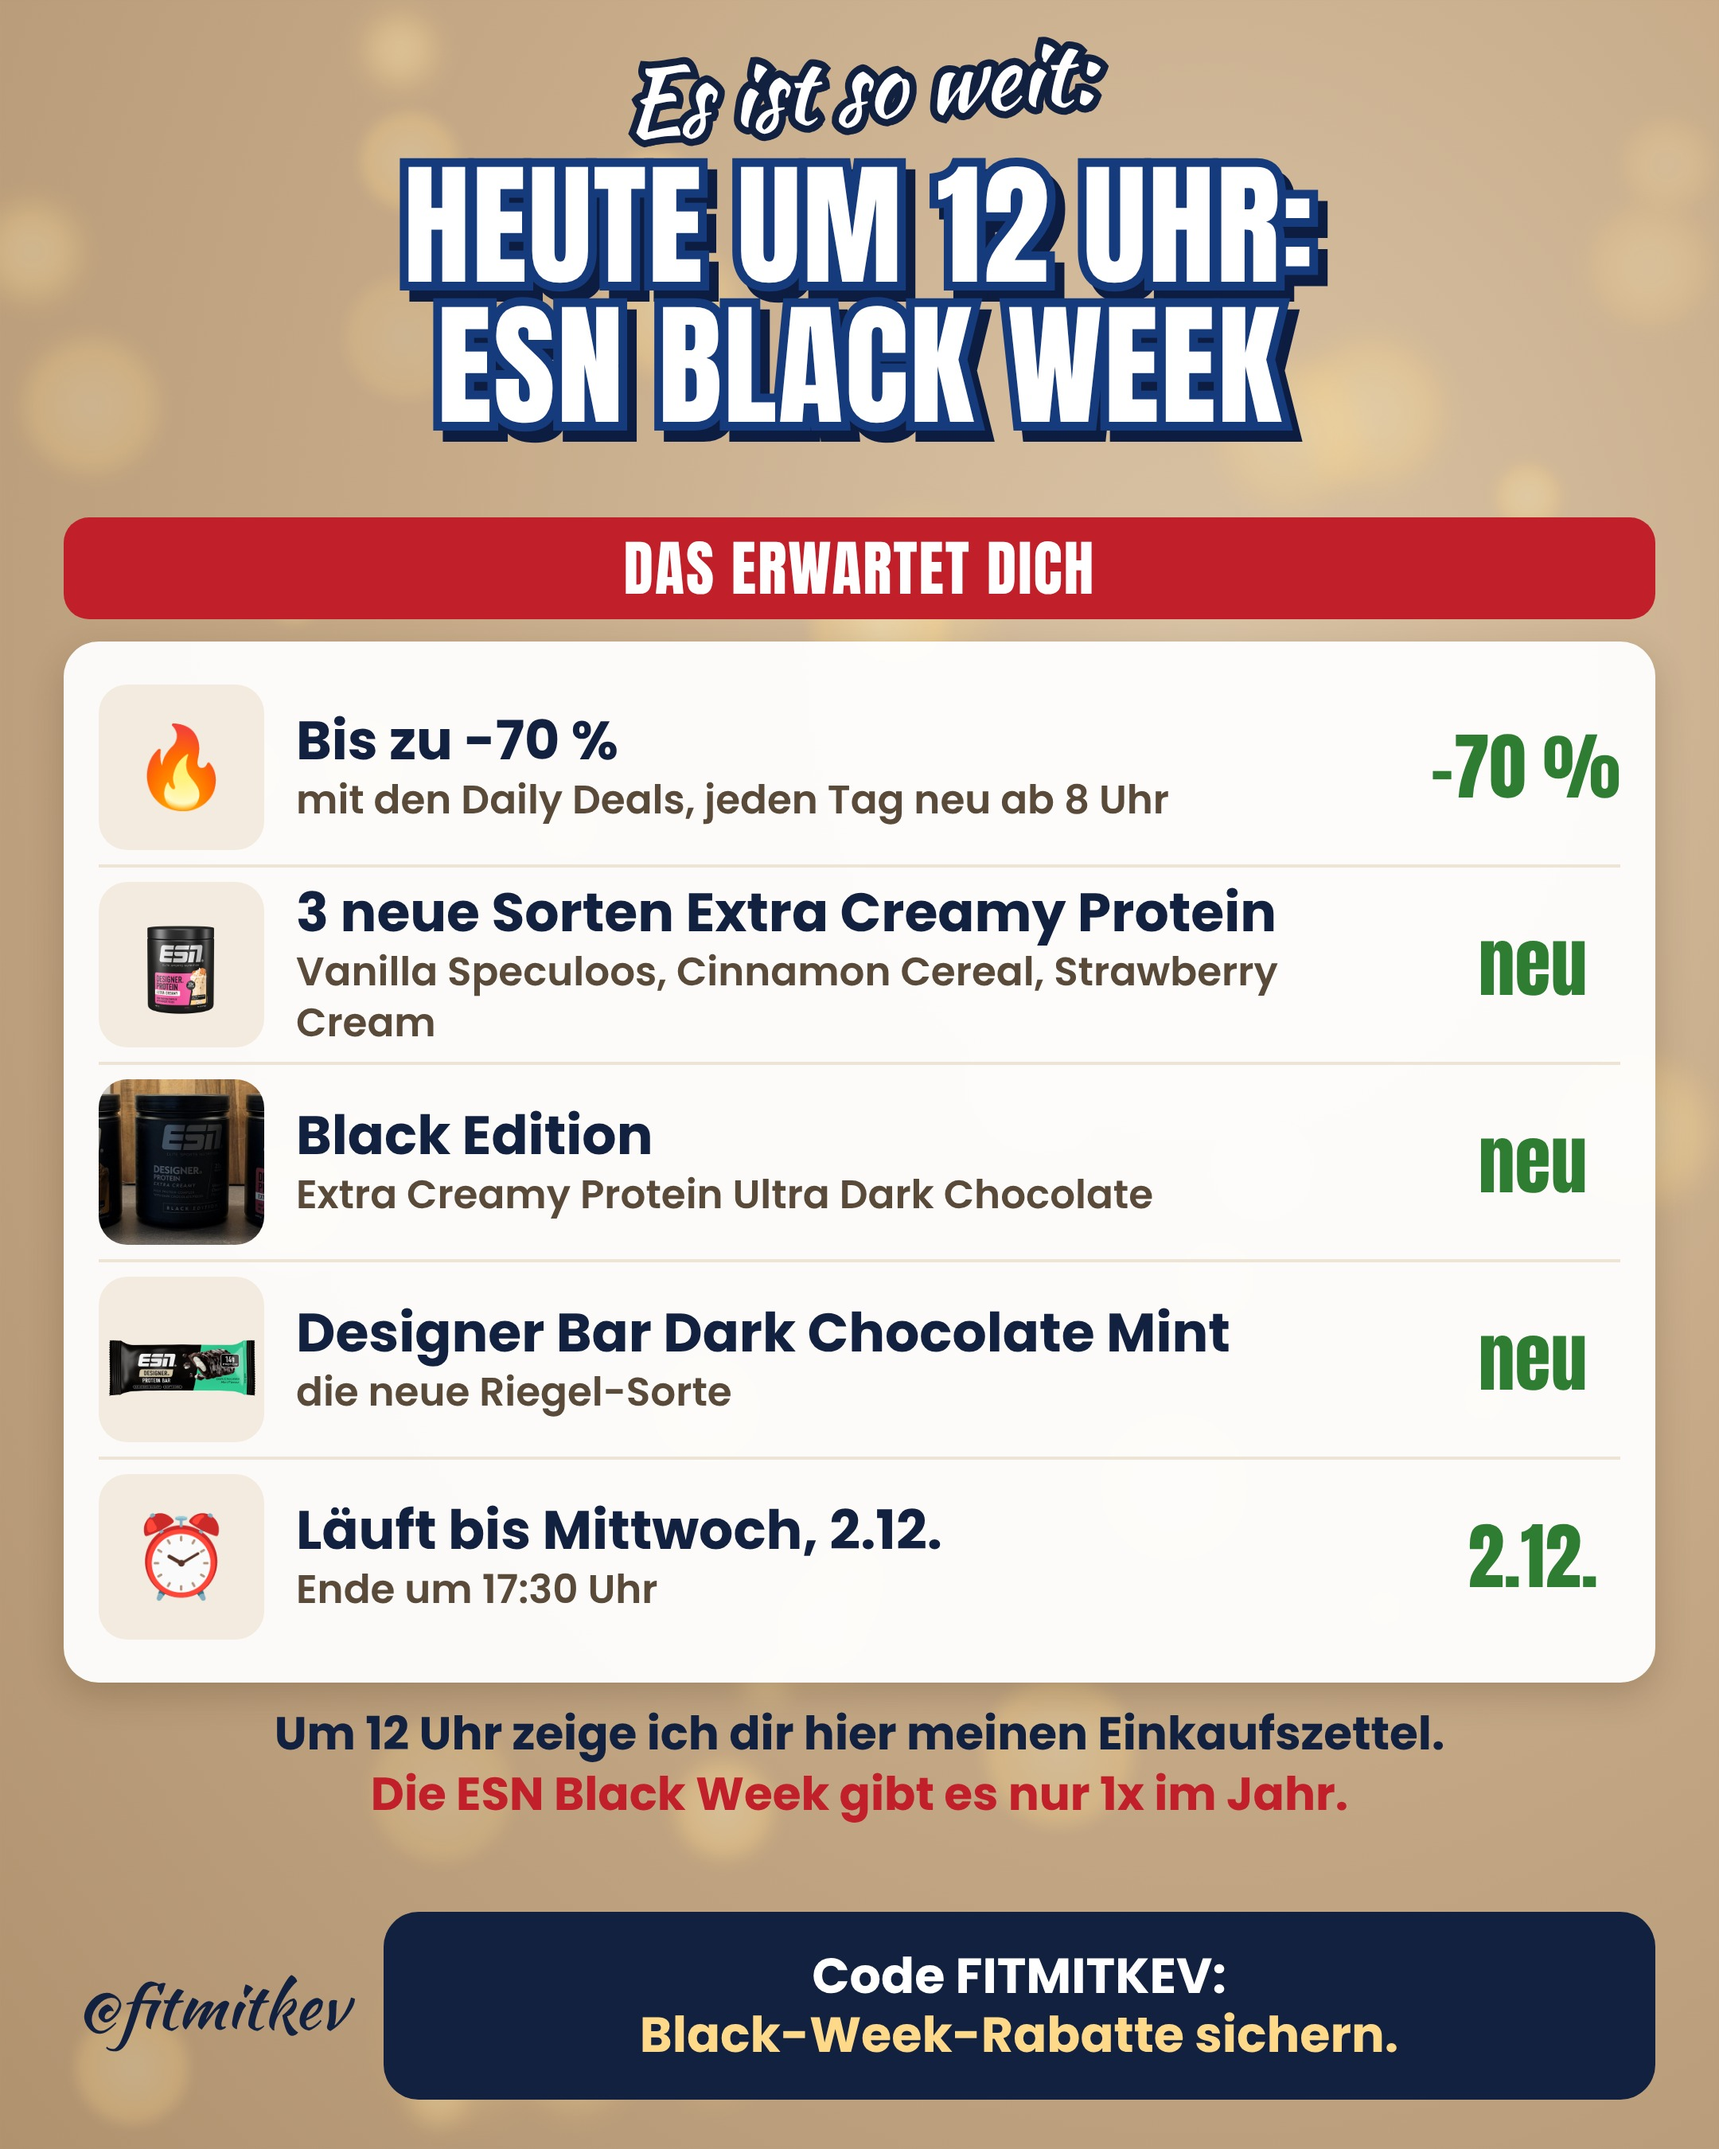
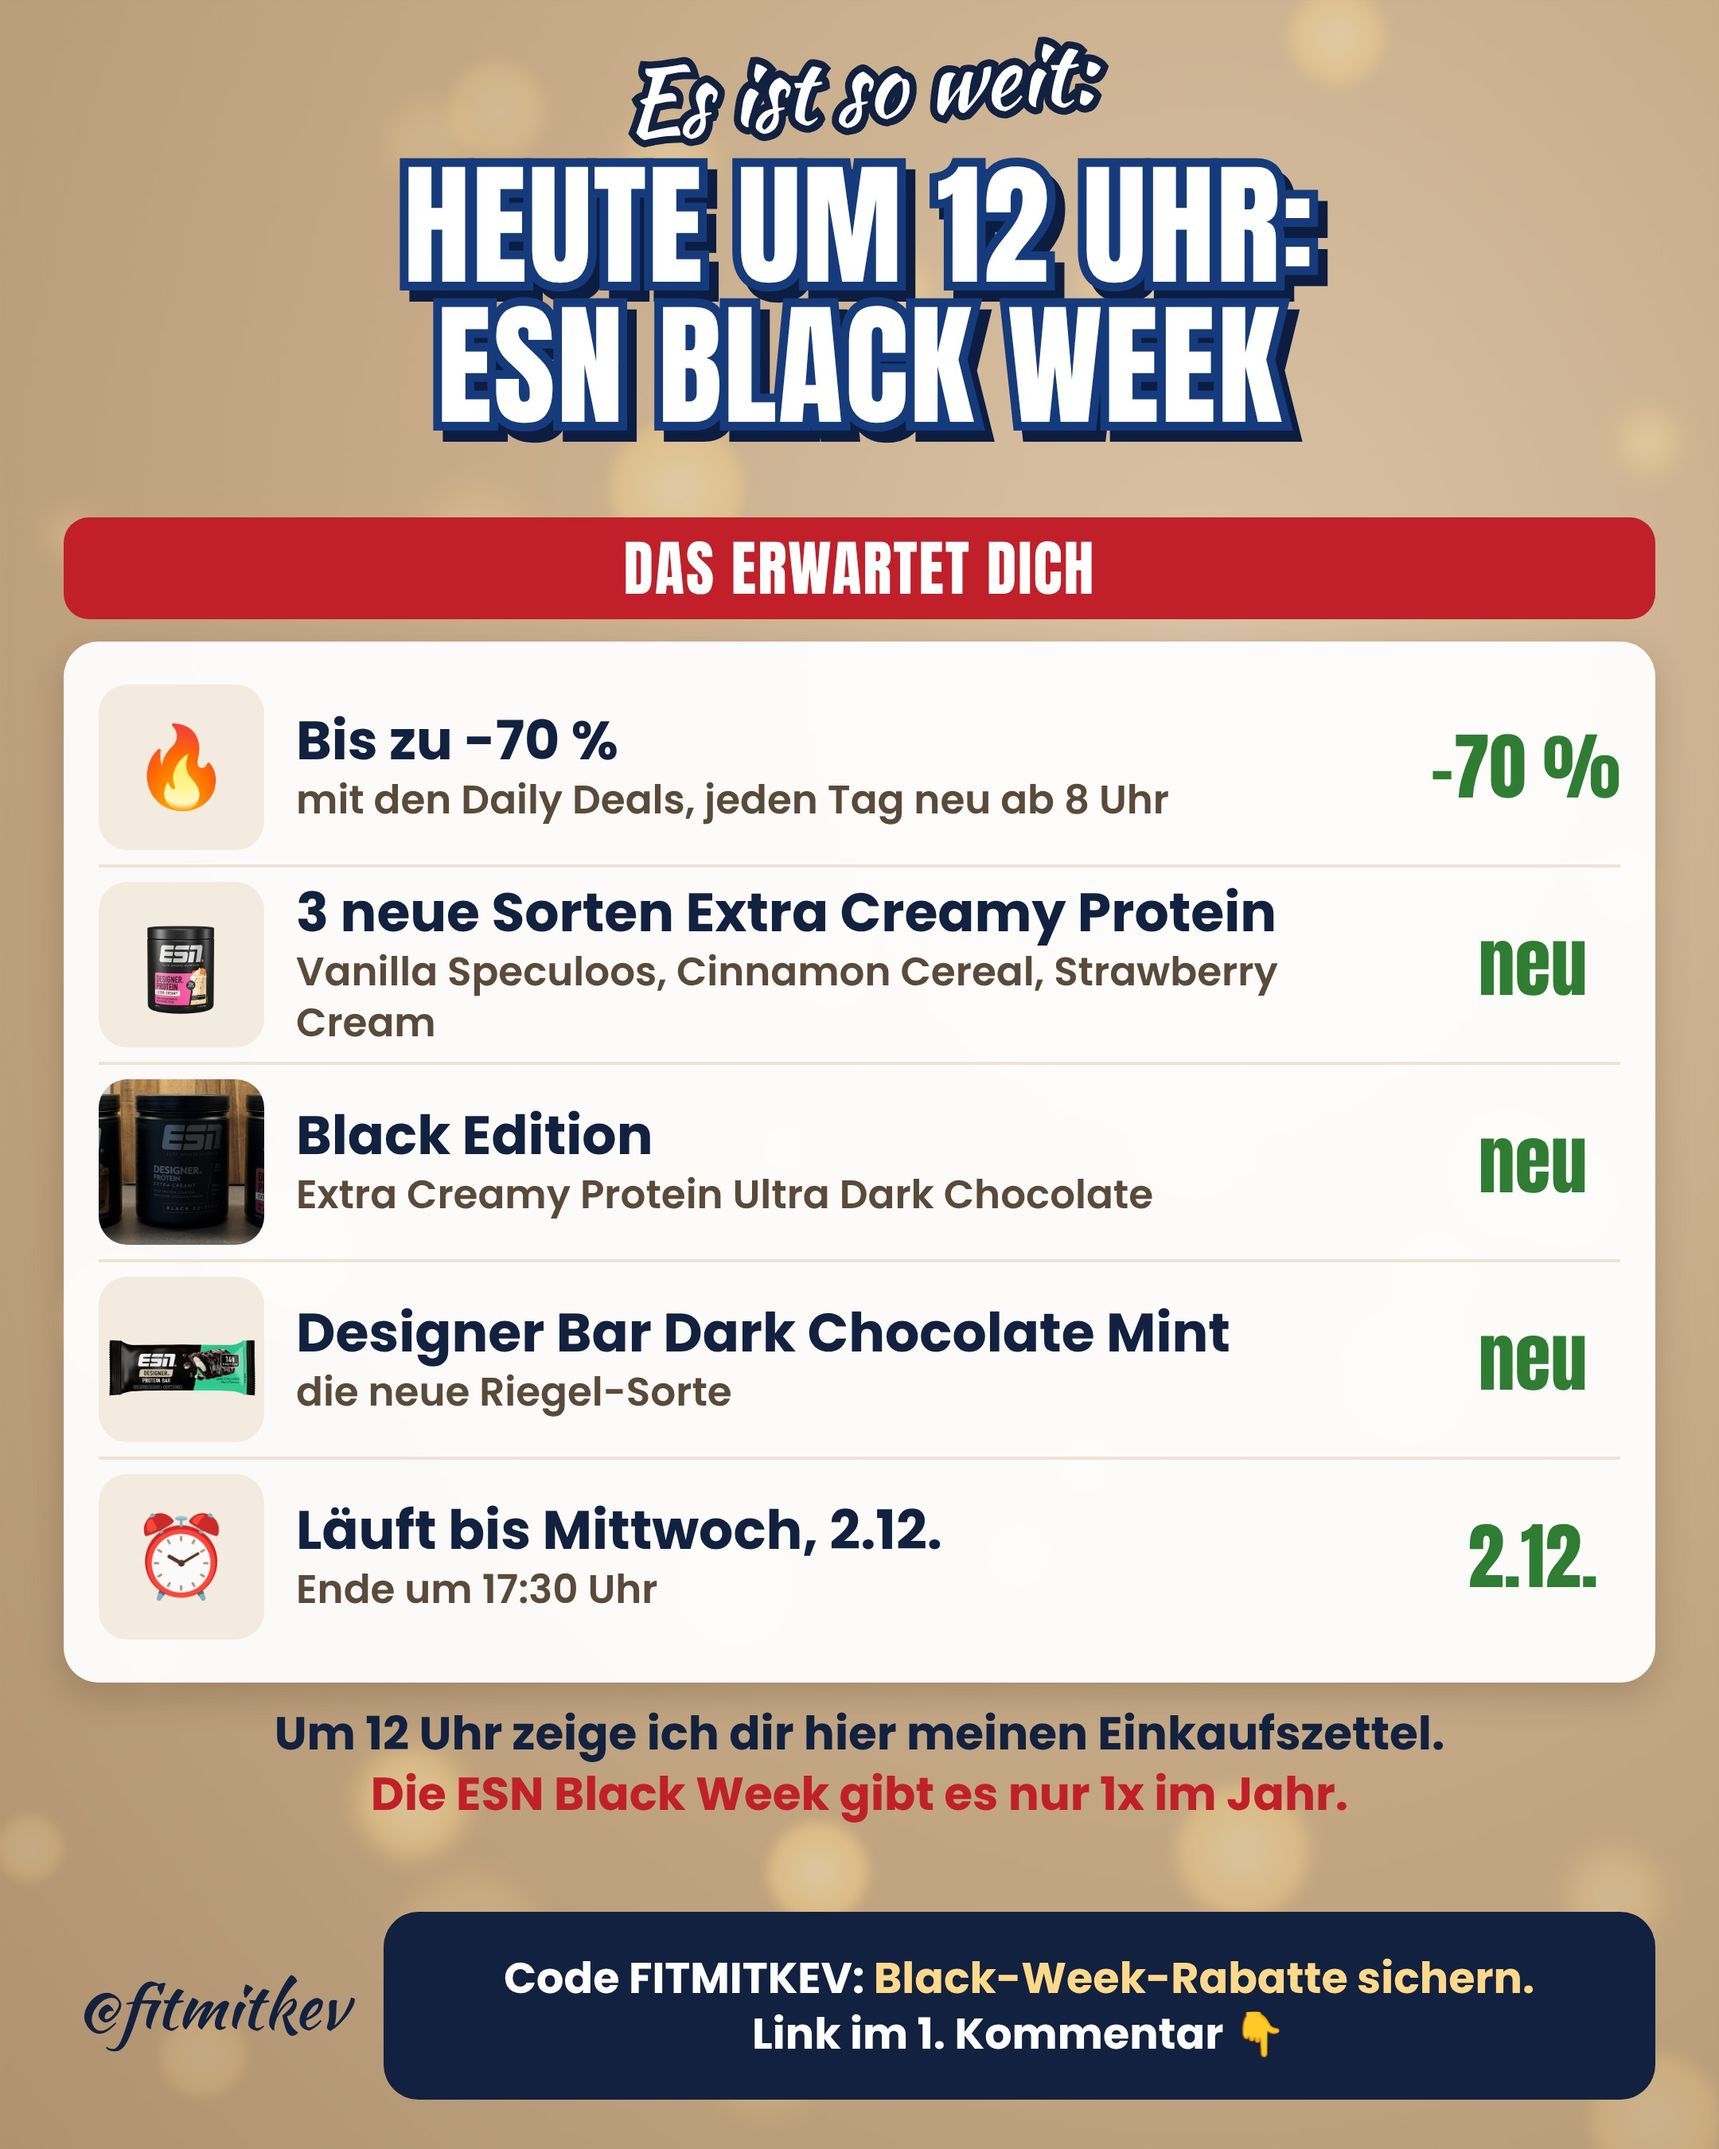
ESN K1/K2: „Link im 1. Kommentar“ im blauen Feld
Claude-Session: https://claude.ai/code/session_01KPVmpRePrZAkggdzf7KsfK

Changed region(s): [[0.2792, 0.84, 0.8995, 0.9644]]

diff --git a/tools/esn_produkt/esn_board.py b/tools/esn_produkt/esn_board.py
@@ -39,8 +39,8 @@ SPEC={
       ('kev/sq-Kev-Isoclear-3-Glaeser-vorn.jpg','Isoclear','Protein-Eistee mit Geschmack','-25 %'),
       ('kev/sq-Kev-FlavorPowder-oben.jpg','Designer Flavor Powder','zum Süßen von Skyr und Quark','-40 %')])],
    mid='Morgen um 12 Uhr startet die ESN Black Week<br><span>mit bis zu -70 %. Nur 1x im Jahr.</span>',
-   msg='Code FITMITKEV:<br><span>Black-Week-Rabatte sichern.</span>',
-   css='.ri{width:104px;height:104px;overflow:hidden}.ri img{max-width:104px;max-height:104px;border-radius:14px}.rw{padding:9px 0}'),
+   msg='Code FITMITKEV: <span>Black-Week-Rabatte sichern.</span><br>Link im 1. Kommentar 👇',
+   css='.ri{width:104px;height:104px;overflow:hidden}.ri img{max-width:104px;max-height:104px;border-radius:14px}.rw{padding:9px 0}.msg{font-size:27px;line-height:1.3}'),
  'K2':dict(out='ESN-K2-Start', hook='Es ist so weit:', title=['HEUTE UM 12 UHR:','ESN BLACK WEEK'], size=84,
    secs=[dict(lab='DAS ERWARTET DICH', col=RED, type='rows', d=[
       ('🔥','Bis zu -70 %','mit den Daily Deals, jeden Tag neu ab 8 Uhr','-70 %'),
@@ -49,8 +49,8 @@ SPEC={
       ('designer-bar-mint.png','Designer Bar Dark Chocolate Mint','die neue Riegel-Sorte','neu'),
       ('⏰','Läuft bis Mittwoch, 2.12.','Ende um 17:30 Uhr','2.12.')])],
    mid='Um 12 Uhr zeige ich dir hier meinen Einkaufszettel.<br><span>Die ESN Black Week gibt es nur 1x im Jahr.</span>',
-   msg='Code FITMITKEV:<br><span>Black-Week-Rabatte sichern.</span>',
-   css='.ri{width:104px;height:104px;overflow:hidden;font-size:50px}.ri img{max-width:104px;max-height:104px;border-radius:14px}.rw{padding:9px 0}'),
+   msg='Code FITMITKEV: <span>Black-Week-Rabatte sichern.</span><br>Link im 1. Kommentar 👇',
+   css='.ri{width:104px;height:104px;overflow:hidden;font-size:50px}.ri img{max-width:104px;max-height:104px;border-radius:14px}.rw{padding:9px 0}.msg{font-size:27px;line-height:1.3}'),
  'P1':dict(out='ESN-P1-Einkaufszettel', hook="Jetzt geht's los:", title=['MEIN EINKAUFSZETTEL','FÜR DIE BLACK WEEK'], size=76,
    secs=[dict(lab='DAS KOMMT BEI MIR IN DEN WARENKORB', col=RED, type='rows', d=[
       ('kev/sq-Kev-Flexpresso-3-Sorten.jpg','Flexpresso für morgens','White & Dark Chocolate Mocha, Chocolate','-25 %'),
